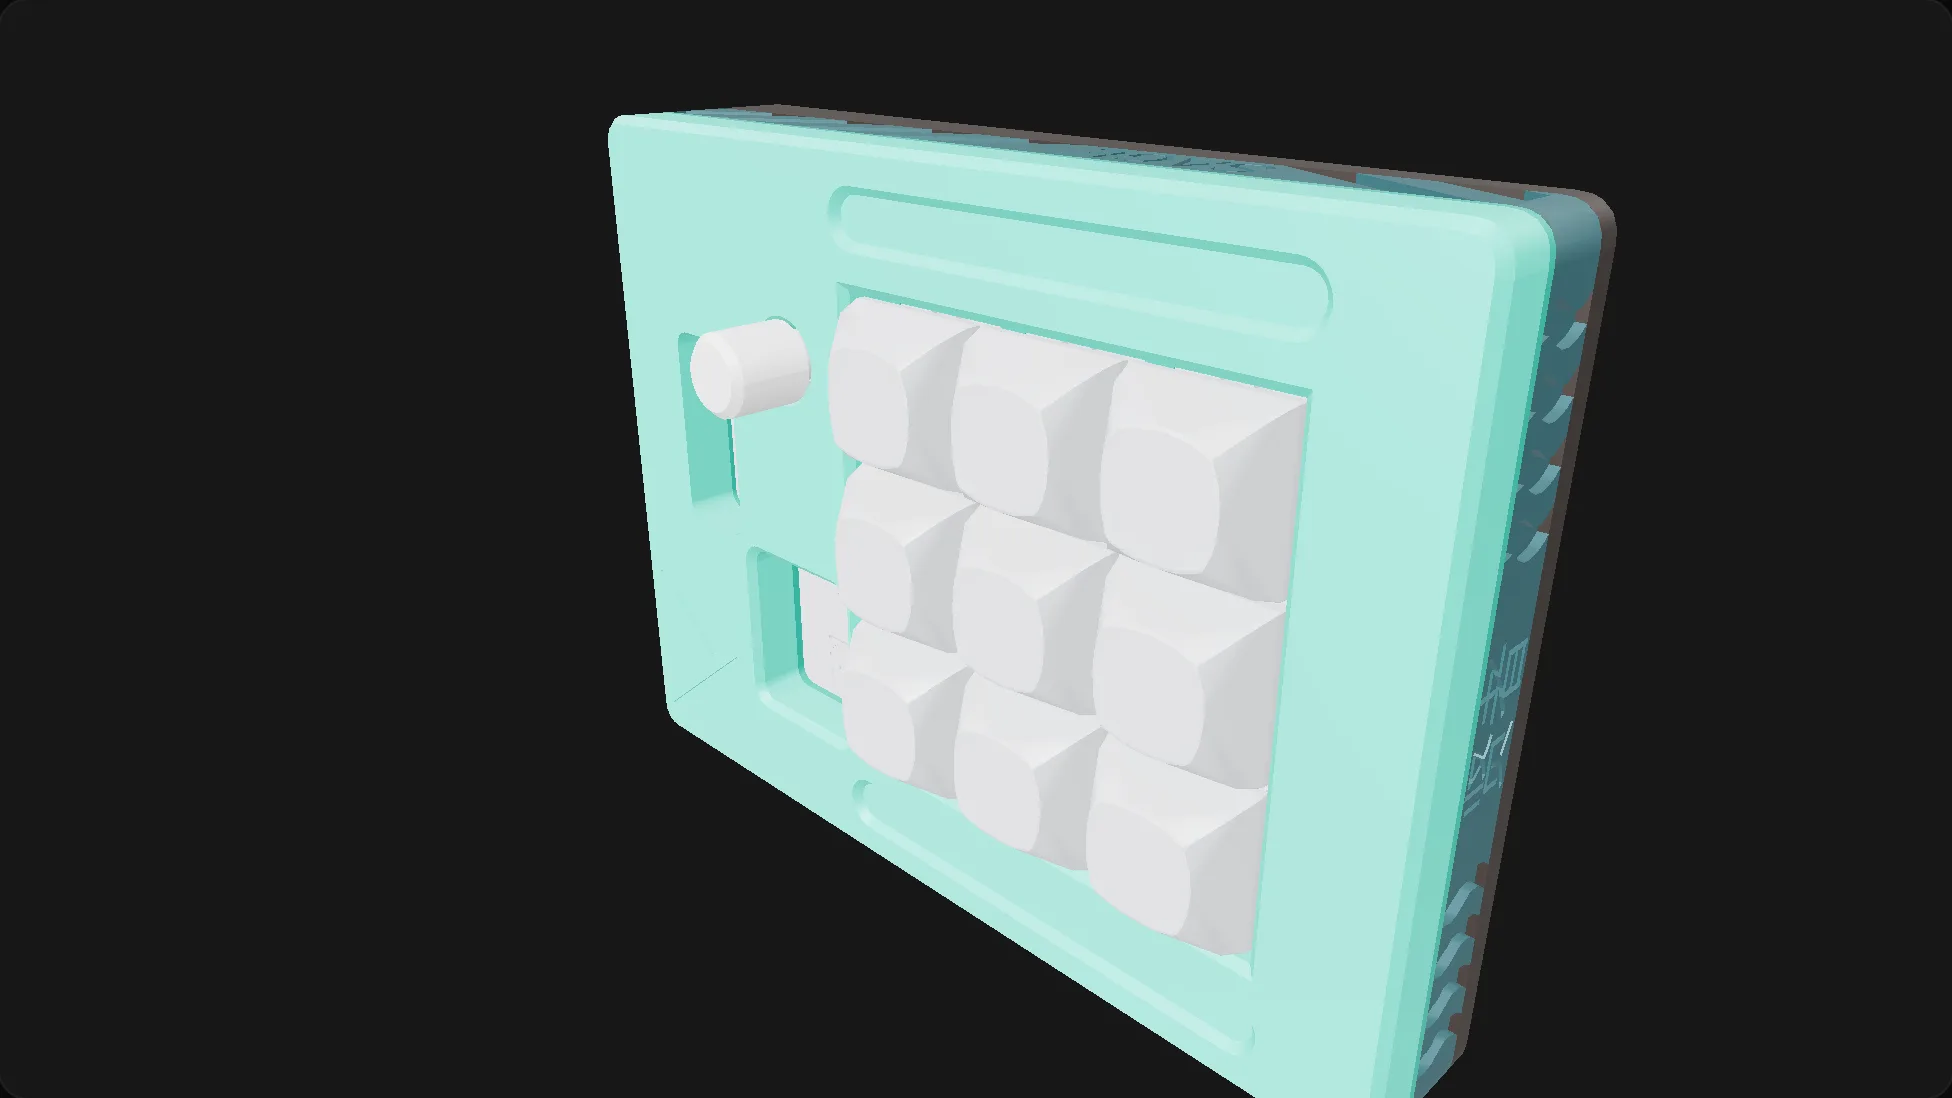
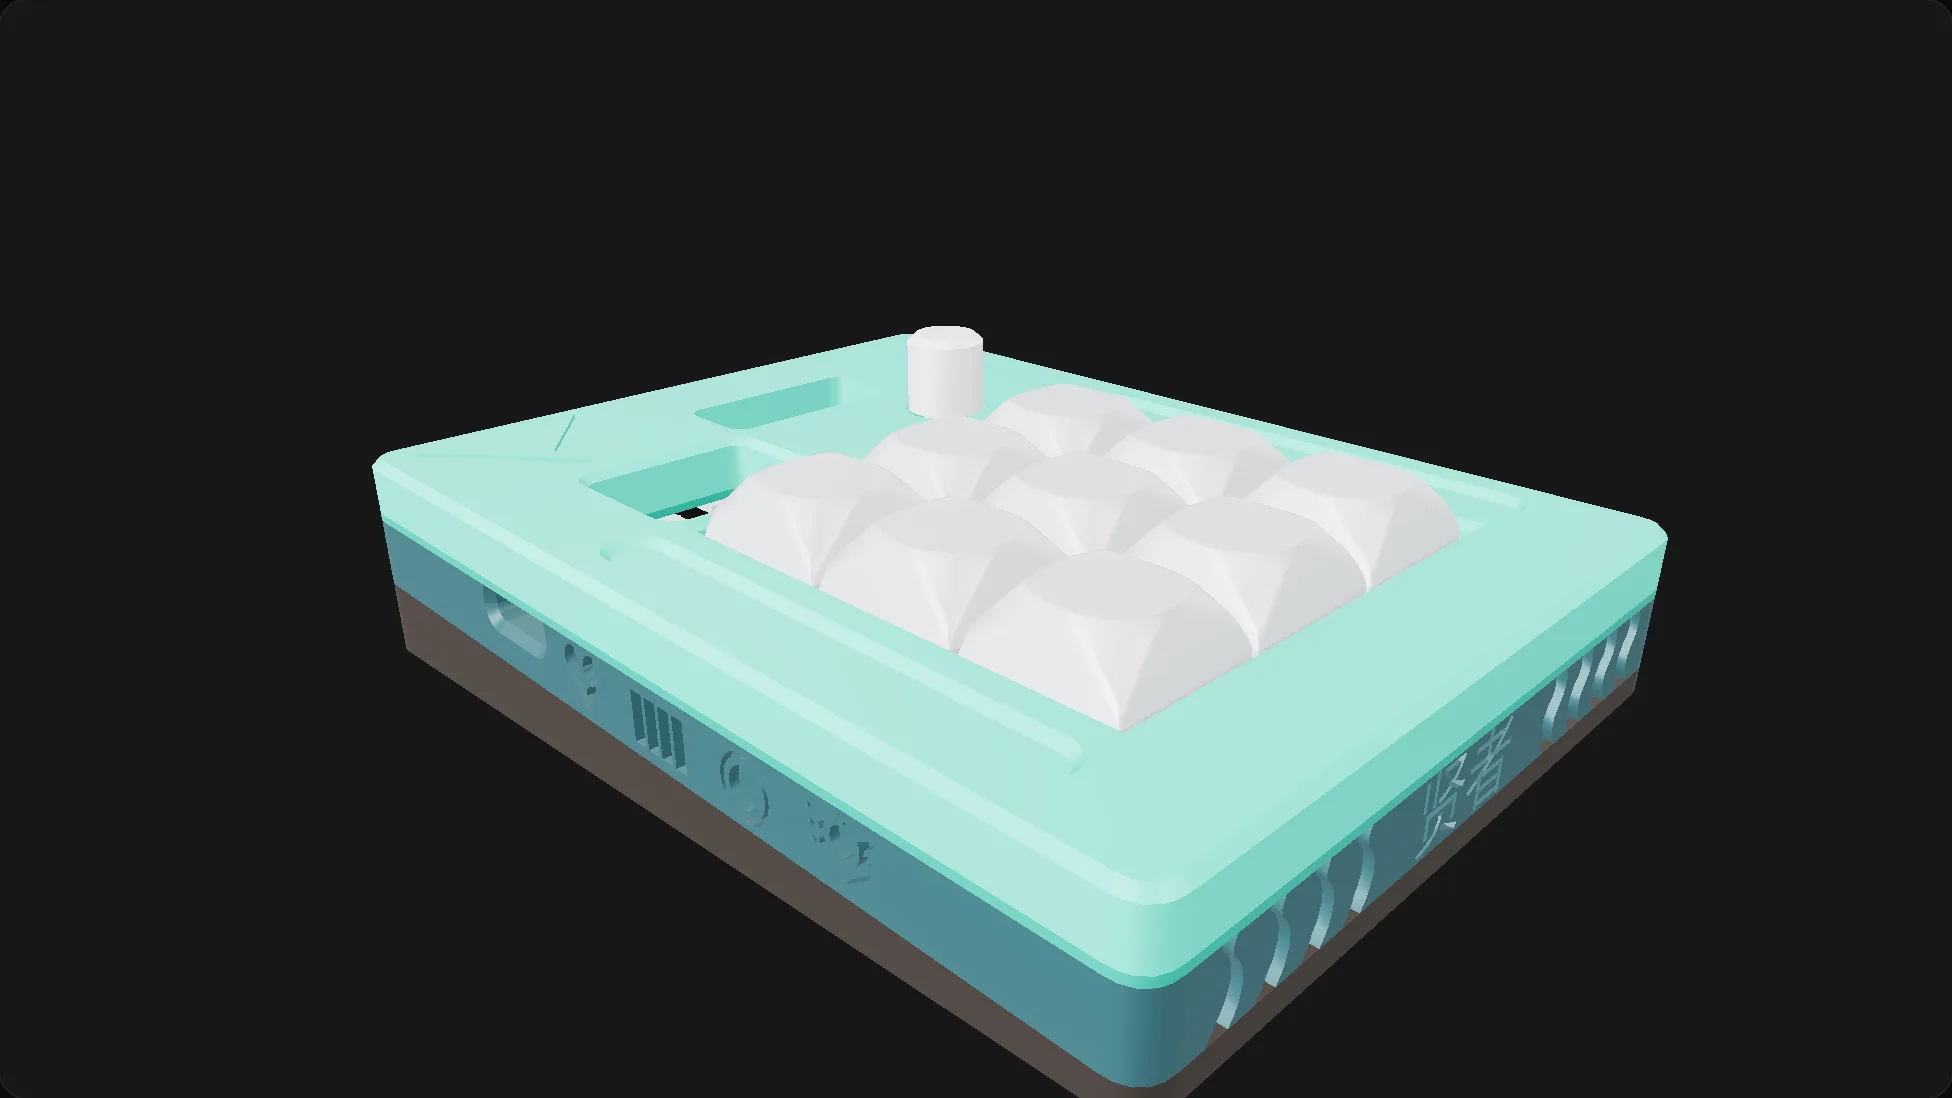
Auto-loading spinning viewers, upright models, typed hero, resume/GitHub links
- Viewer auto-loads on page entry (no click), auto-rotates until grabbed,
  pauses offscreen, tighter framing
- Z-up correction for CAD exports (up: z frontmatter)
- Renamed intake project to Biped Robot (it's a biped)
- Typewriter animation on hero heading (reduced-motion safe)
- Resume PDF + GitHub linked; email fixed to resume's address

diff --git a/src/lib/viewer.ts b/src/lib/viewer.ts
@@ -2,9 +2,10 @@
  * Lazy-loaded Three.js viewer for meshopt-compressed GLB models.
  *
  * Efficiency contract:
- * - This module (and three.js) is only fetched after user intent (see ModelViewer.astro).
- * - Render-on-demand: the rAF loop runs only while the camera is moving; an idle
- *   viewer costs zero CPU/GPU.
+ * - This module (and three.js) is a separate chunk fetched only on pages with a viewer
+ *   (see ModelViewer.astro); it is cached across all project pages.
+ * - The rAF loop runs only while the model is auto-rotating **and on screen**, or while
+ *   the camera is moving. Offscreen or after interaction settles: zero CPU/GPU.
  * - Pixel ratio capped at 2; renderer disposed on pagehide.
  */
 import {
@@ -60,12 +61,20 @@ export function createViewer(container: HTMLElement): void {
   const controls = new OrbitControls(camera, renderer.domElement);
   controls.enableDamping = true;
   controls.dampingFactor = 0.08;
+  // Turntable spin until the visitor grabs the model.
+  controls.autoRotate = !captureMode;
+  controls.autoRotateSpeed = 1.2;
 
   // --- Render on demand: run the loop only while something is changing. ---
   let rafId = 0;
   let running = false;
   let settled = 0;
+  let inView = true;
   function frame() {
+    if (!inView) {
+      running = false;
+      return;
+    }
     const moved = controls.update();
     renderer.render(scene, camera);
     settled = moved ? 0 : settled + 1;
@@ -77,7 +86,7 @@ export function createViewer(container: HTMLElement): void {
   }
   function wake() {
     settled = 0;
-    if (!running) {
+    if (!running && inView) {
       running = true;
       rafId = requestAnimationFrame(frame);
     }
@@ -85,6 +94,7 @@ export function createViewer(container: HTMLElement): void {
   let pointerDown = false;
   controls.addEventListener("start", () => {
     pointerDown = true;
+    controls.autoRotate = false;
     wake();
   });
   controls.addEventListener("end", () => {
@@ -92,6 +102,13 @@ export function createViewer(container: HTMLElement): void {
     wake();
   });
   controls.addEventListener("change", wake);
+
+  // Pause the spin (and all rendering) while the viewer is scrolled offscreen.
+  const viewObserver = new IntersectionObserver(([entry]) => {
+    inView = entry.isIntersecting;
+    if (inView) wake();
+  });
+  viewObserver.observe(container);
 
   const resizeObserver = new ResizeObserver(() => {
     const { clientWidth: w, clientHeight: h } = container;
@@ -113,7 +130,7 @@ export function createViewer(container: HTMLElement): void {
     const dist = maxDim / (2 * Math.tan((camera.fov * Math.PI) / 360));
     camera.position
       .copy(center)
-      .add(new Vector3(1, 0.6, 1).normalize().multiplyScalar(dist * (captureMode ? 1.05 : 1.4)));
+      .add(new Vector3(1, 0.6, 1).normalize().multiplyScalar(dist * (captureMode ? 1.05 : 1.15)));
     camera.near = maxDim / 100;
     camera.far = dist * 20;
     camera.updateProjectionMatrix();
@@ -131,6 +148,8 @@ export function createViewer(container: HTMLElement): void {
   loader.load(
     src,
     (gltf) => {
+      // STEP/CAD exports are usually Z-up; glTF is Y-up. `data-up="z"` stands them upright.
+      if (container.dataset.up === "z") gltf.scene.rotation.x = -Math.PI / 2;
       scene.add(gltf.scene);
       frameModel(gltf.scene);
       posterEl?.remove();
@@ -171,6 +190,7 @@ export function createViewer(container: HTMLElement): void {
   window.addEventListener("pagehide", () => {
     cancelAnimationFrame(rafId);
     resizeObserver.disconnect();
+    viewObserver.disconnect();
     controls.dispose();
     scene.environment?.dispose();
     scene.traverse((obj) => {

diff --git a/src/styles/global.css b/src/styles/global.css
@@ -132,6 +132,27 @@
     }
 }
 
+/* Blinking caret for the hero typewriter effect. */
+#typed {
+  min-height: 1lh;
+  display: inline-block;
+}
+#typed.typing::after {
+  content: "";
+  display: inline-block;
+  width: 3px;
+  height: 0.9em;
+  margin-left: 0.08em;
+  vertical-align: -0.08em;
+  background: currentColor;
+  animation: caret-blink 1.1s step-end infinite;
+}
+@keyframes caret-blink {
+  50% {
+    opacity: 0;
+  }
+}
+
 /* Minimal typography for markdown project writeups (avoids a plugin dependency). */
 @layer components {
   .prose {

diff --git a/src/lib/site.ts b/src/lib/site.ts
@@ -1,12 +1,13 @@
 // Single place to edit personal info shown across the site.
 export const site = {
-  name: "Michael Lu", // TODO: confirm display name
+  name: "Michael Lu",
   role: "Mechanical & Hardware Design",
   tagline:
     "I design and build physical things — CAD models, electronics, and the hardware that ties them together.",
-  email: "[email redacted]",
-  github: "https://github.com/", // TODO: add handle
-  resume: "", // optional: path to a PDF in /public, e.g. "/resume.pdf"
+  email: "[email redacted]",
+  github: "https://github.com/Bihyungbetter",
+  linkedin: "", // TODO: paste your LinkedIn profile URL, e.g. "https://www.linkedin.com/in/..."
+  resume: "/resume.pdf",
   description:
     "Personal portfolio of CAD and hardware projects, with interactive 3D viewers.",
 };

diff --git a/src/content.config.ts b/src/content.config.ts
@@ -13,6 +13,8 @@ const projects = defineCollection({
     tools: z.array(z.string()).default([]),
     // Path under /public to a meshopt-compressed GLB, e.g. "/models/gearbox.glb"
     model: z.string().optional(),
+    // CAD exports are usually Z-up; glTF is Y-up. "z" stands the model upright.
+    up: z.enum(["y", "z"]).default("y"),
     // Path under /public to a WebP poster shown before the viewer loads
     poster: z.string().optional(),
     featured: z.boolean().default(false),

diff --git a/src/content/projects/biped-robot.md b/src/content/projects/biped-robot.md
@@ -1,0 +1,28 @@
+---
+title: Biped Robot
+summary: A bipedal walking robot with printed structure and goBILDA 8mm REX drive hardware, including custom roller-wheel feet.
+date: 2026-01-20
+tags: [cad, robotics, biped]
+tools: [Onshape]
+model: /models/biped-robot.glb
+poster: /posters/biped-robot.webp
+up: z
+specs:
+  - { label: Drive, value: "goBILDA 1311 Sonic Hub on 8mm REX shaft" }
+  - { label: Rollers, value: "Printed, custom inner/outer races" }
+  - { label: Structure, value: "Printed body + leg linkages" }
+links: []
+---
+
+## Overview
+
+<!-- TODO: replace with your own writeup — this was drafted from the CAD assembly's part list. -->
+
+A bipedal robot with a printed central body and two legs. The drivetrain runs goBILDA
+hardware — a 1311 Sonic hub on an 8mm REX shaft with an E-clip — and the feet use
+printed rollers riding on custom inner/outer bearing races.
+
+## Design notes
+
+- Custom races let the rollers spin freely without off-the-shelf micro bearings
+- Sonic hub interface keeps the drive components swappable

diff --git a/src/content/projects/flight-sim-controls.md b/src/content/projects/flight-sim-controls.md
@@ -6,6 +6,7 @@ tags: [hardware, cad, flight-sim, force-feedback]
 tools: [Fusion 360]
 model: /models/flight-sim-controls.glb
 poster: /posters/flight-sim-controls.webp
+up: z
 featured: true
 specs:
   - { label: Motor, value: "GB54-2 gimbal motor" }

diff --git a/src/content/projects/hackpad-macropad.md b/src/content/projects/hackpad-macropad.md
@@ -6,6 +6,7 @@ tags: [hardware, electronics, pcb, keyboards]
 tools: [Fusion 360, KiCad]
 model: /models/hackpad-macropad.glb
 poster: /posters/hackpad-macropad.webp
+up: z
 featured: true
 specs:
   - { label: Switches, value: "MX-style, plate mount" }